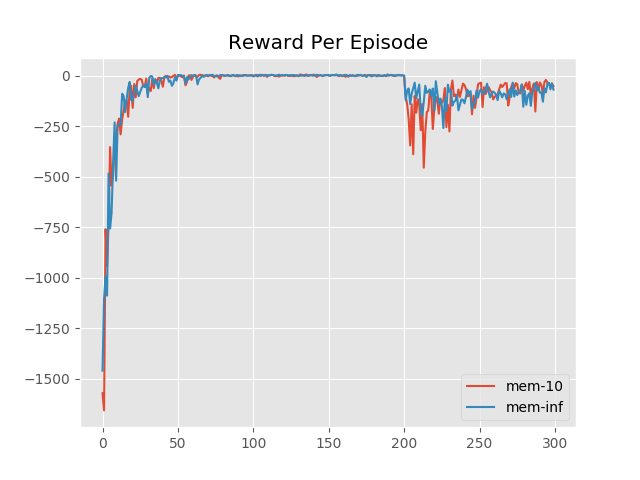
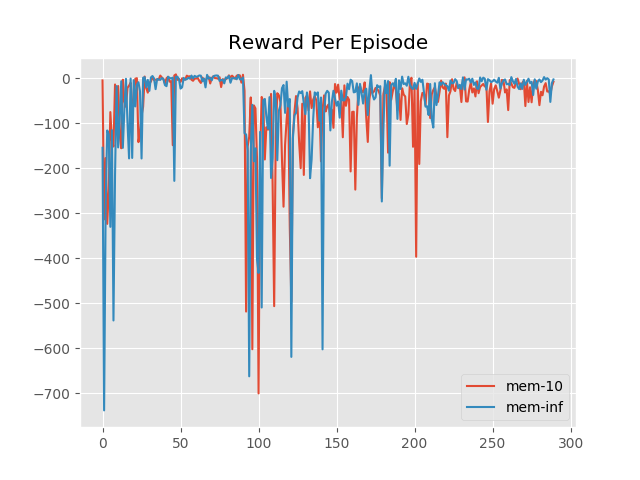
finish testing the effect of max_mem

diff --git a/hw3/dynaq.py b/hw3/dynaq.py
@@ -94,9 +94,9 @@ class plan_model_stationary(dict):
         entry = action.setdefault(a,[0,{},0])
         # this is for deterministic environment, for stochastic case, comment
         # out the if clause 
-        if ss not in entry[1].keys():
-            entry[0] = 0
-            entry[1] = {}
+        # if ss not in entry[1].keys():
+        #     entry[0] = 0
+        #     entry[1] = {}
         entry[0] += 1
         entry[1][ss] = entry[1].setdefault(ss,0) + 1
         entry[2] = (entry[2] * (entry[0] - 1) + r) / entry[0]
@@ -312,14 +312,14 @@ def plot_non_stationary():
     env1 = gym.make('Taxi-v4')
     env2 = gym.make('Taxi-v5')
     episodes = 300
-    switch_time = 200
-    runs = 20
+    switch_time = 100
+    runs = 5
     avg_rew1,avg_rew2 = [], []
     avg_steps1,avg_steps2 = [], []
     for run in range(runs):
         Q2, rew_list2, steps_list2 = \
             dynaq(env1, env2, n=10, alpha=1., gamma=1.0,
-                    episodes=episodes,switch_time=switch_time,max_mem=-1)
+                    episodes=episodes,switch_time=switch_time,max_mem=1)
         avg_rew2.append(rew_list2)
         avg_steps2.append(steps_list2)
         Q1, rew_list1, steps_list1 = \
@@ -334,8 +334,8 @@ def plot_non_stationary():
     cum_steps1 = [sum(avg_steps1[:idx]) for idx in range(episodes)]
     cum_steps2 = [sum(avg_steps2[:idx]) for idx in range(episodes)]
     fig = plt.figure()
-    plt.plot(avg_rew1,label='mem-10')
-    plt.plot(avg_rew2,label='mem-inf')
+    plt.plot(avg_rew1[10:],label='mem-10')
+    plt.plot(avg_rew2[10:],label='mem-inf')
     plt.legend()
     plt.title("Reward Per Episode")
     plt.savefig('dynaq_non_stationary_rewards.png')
@@ -360,4 +360,4 @@ def plot_non_stationary():
     # testshow(env2,policy)
     
 if __name__ == '__main__':
-    plot_q_vs_dynaq()
+    plot_non_stationary()
